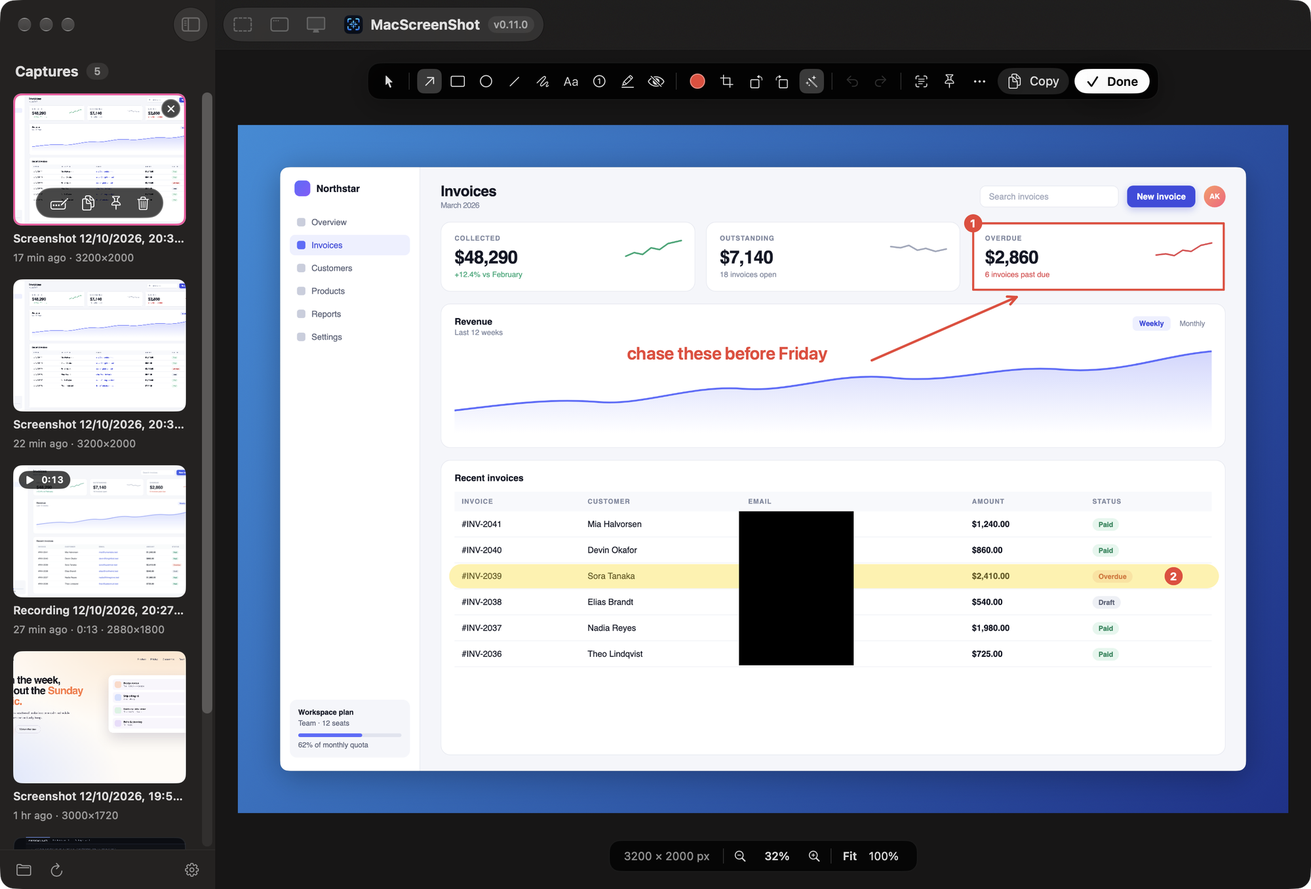
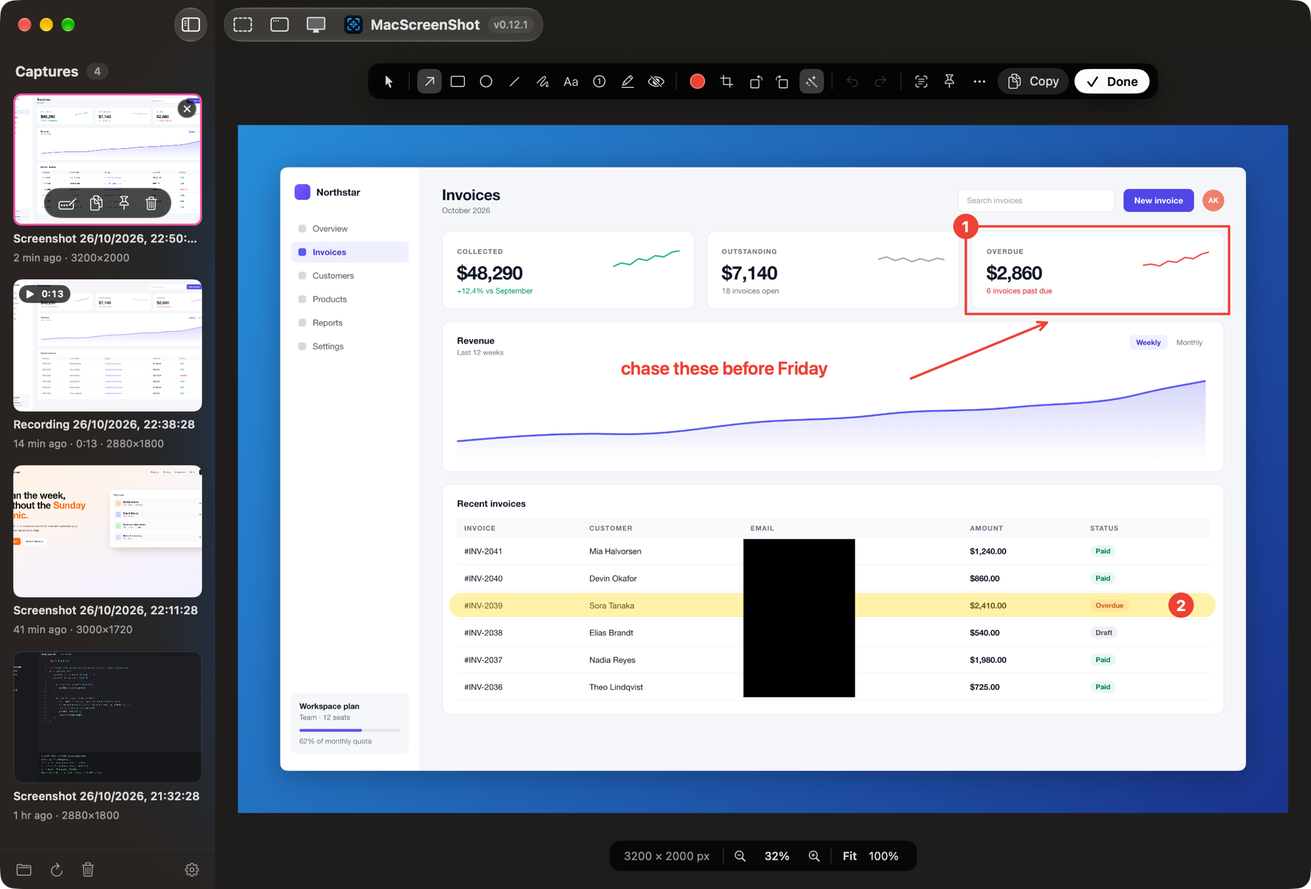
README: refresh screenshots for 0.12.1 and modernize the layout
Re-shoot every README screenshot from the current build (the selector
no longer has a pixel loupe; the editor shows rotate and Delete All;
the studio shows the current zoom timeline) and restyle the README with
a tighter hero, a feature grid and side-by-side image rows. Text now
covers rotate, auto-copy, Delete All, removing a single auto-zoom and
export resolutions.

diff --git a/README.md b/README.md
@@ -1,16 +1,16 @@
 <div align="center">
 
-<img src="MacScreenShot/Assets.xcassets/AppIcon.appiconset/AppIcon-1024.png" width="140" alt="MacScreenShot app icon — free open-source Mac screenshot app and screen recorder with annotation and a Screen Studio-style editor" />
+<img src="MacScreenShot/Assets.xcassets/AppIcon.appiconset/AppIcon-1024.png" width="128" alt="MacScreenShot app icon — free open-source Mac screenshot app and screen recorder with annotation and a Screen Studio-style editor" />
 
 # MacScreenShot
 
-**The free, open-source screenshot app and screen recorder for Mac — capture, annotate, beautify, record. 100% on-device.**
+### Capture, annotate, beautify and record your Mac screen — free, open source, 100% on-device.
 
-Press ⌘⇧4. Click a window or drag an area. Annotate it, drop it on a gradient, paste it anywhere — no account, no subscription, nothing ever leaves your Mac.
+Press <kbd>⌘</kbd> <kbd>⇧</kbd> <kbd>4</kbd>, click a window or drag an area, mark it up, drop it on a gradient and paste it anywhere.<br/>
+Record a take and a Screen Studio-style editor turns it into a polished 60 fps MP4. No account, no subscription, nothing leaves your Mac.
 
-🎬 **Records your screen too** — and opens it in a Screen Studio-style editor: a camera that zooms wherever you click, a smooth synthetic cursor, wallpaper backdrops, and a 60 fps MP4 out the other end. [See it →](#-screen-recording--the-studio-editor)
-
-[**⬇ Download for Mac (.dmg)**](https://github.com/winterzxzz/winter_shot/releases/latest)
+<a href="https://github.com/winterzxzz/winter_shot/releases/latest"><img src="https://img.shields.io/badge/Download_for_macOS-.dmg-0A84FF?style=for-the-badge&logo=apple&logoColor=white" alt="Download MacScreenShot for macOS" /></a>
+<a href="https://winterzxzz.github.io/winter_shot/"><img src="https://img.shields.io/badge/Website-winterzxzz.github.io-555555?style=for-the-badge" alt="MacScreenShot website" /></a>
 
 [![Latest release](https://img.shields.io/github/v/release/winterzxzz/winter_shot?label=Download&color=blue)](https://github.com/winterzxzz/winter_shot/releases/latest)
 [![Downloads](https://img.shields.io/github/downloads/winterzxzz/winter_shot/total?color=brightgreen)](https://github.com/winterzxzz/winter_shot/releases)
@@ -22,23 +22,169 @@ Press ⌘⇧4. Click a window or drag an area. Annotate it, drop it on a gradien
 [![License: MIT](https://img.shields.io/badge/License-MIT-yellow.svg)](LICENSE)
 [![GitHub stars](https://img.shields.io/github/stars/winterzxzz/winter_shot?style=social)](https://github.com/winterzxzz/winter_shot/stargazers)
 
+<br/>
+
 <img src="docs/assets/demo.gif" width="860" alt="MacScreenShot demo — freeze the screen and pick a window, annotate the capture with arrows and redaction, put it on a backdrop, record the screen with auto-zoom, edit it in the studio editor, and reopen everything from the notch history" />
 
-<sub>▶ <a href="https://winterzxzz.github.io/winter_shot/#demo">Watch the demo in full quality</a> · <a href="https://winterzxzz.github.io/winter_shot/">Website</a></sub>
+<sub>▶ <a href="https://winterzxzz.github.io/winter_shot/#demo">Watch the demo in full quality</a></sub>
+
+<br/>
+
+**[Features](#-features)** · **[Capture](#-the-capture-flow)** · **[Editor](#-the-editor)** · **[Recording](#-screen-recording--the-studio-editor)** · **[Compare](#-how-macscreenshot-compares)** · **[Download](#-download)** · **[FAQ](#-faq)**
 
 </div>
 
 ---
 
-## What is MacScreenShot?
+## 👋 What is MacScreenShot?
 
-MacScreenShot is a **native macOS menu-bar app for screenshots and screen recordings**. It captures with ScreenCaptureKit, hands you a real editor — nine annotation tools, crop, rotate, background beautify, on-device OCR — and keeps every edit in a sidecar file so you can reopen a shot months later and still move that arrow.
+MacScreenShot is a **native macOS menu-bar app for screenshots and screen recordings**. It captures with ScreenCaptureKit and hands you a real editor — nine annotation tools, crop, rotate, background beautify, on-device OCR — while every edit lives in a sidecar file, so you can reopen a shot months later and still move that arrow.
 
-Recordings get the same treatment: MacScreenShot logs your pointer and clicks *next to* the video instead of burning them in, then a Screen Studio-style editor turns the raw capture into a polished clip — zoom that follows your clicks, a synthetic cursor, backdrops, motion blur — and re-exports it any way you like, as many times as you like.
-
-> **MacScreenShot was previously called WinterShot.** Same app, same repository — updating keeps your captures, your settings and the Screen Recording permission.
+Recordings get the same treatment. MacScreenShot logs your pointer and clicks *next to* the video instead of burning them in, and a Screen Studio-style editor turns the raw take into a polished clip — a camera that zooms where you click, a smooth synthetic cursor, backdrops, motion blur — that you can re-export any way you like, as often as you like.
 
 It's the free, private alternative to paid capture tools like CleanShot X, Shottr and Screen Studio: pure SwiftUI, zero third-party dependencies, no telemetry, no account, and exactly **one** system permission.
+
+> [!NOTE]
+> **MacScreenShot was previously called WinterShot.** Same app, same repository — updating keeps your captures, your settings and the Screen Recording permission.
+
+## ✨ Features
+
+<table>
+<tr>
+<td width="33%" valign="top">
+
+#### 🧊 Frozen-screen selector
+The screen freezes the moment you press the hotkey. Crosshair guides follow the cursor and windows lift out of a dimmed backdrop — one click captures a window cleanly, even half-covered.
+
+</td>
+<td width="33%" valign="top">
+
+#### ✏ Nine annotation tools
+Arrow, rectangle, ellipse, line, freehand, text, numbered counters, highlighter and redaction — with colors, adjustable stroke, undo/redo and drag-to-move.
+
+</td>
+<td width="33%" valign="top">
+
+#### ♻ Non-destructive by design
+Annotations, crop, rotation and backdrop live in a `.wshot.json` sidecar next to the PNG. Every arrow stays editable, every crop and quarter turn reversible. Pixels are flattened only on export.
+
+</td>
+</tr>
+<tr>
+<td valign="top">
+
+#### 🎬 Recording + studio editor
+Record a display, a window or an area. Zoom, cursor, backdrop and masks are applied at export, so the raw take is never touched — and your edit is saved next to it.
+
+</td>
+<td valign="top">
+
+#### 🎨 Background beautify
+Put a shot on a gradient with padding, rounded corners and a soft shadow — seven presets, live in the editor, ready for posts and docs.
+
+</td>
+<td valign="top">
+
+#### 🔍 On-device OCR
+Pull the text out of any capture with Apple Vision and copy it. Nothing is uploaded.
+
+</td>
+</tr>
+<tr>
+<td valign="top">
+
+#### 📌 Pin & copy
+Float a capture above every window while you work. Or turn on *Copy to clipboard automatically* and every new shot is ready to paste the moment you take it.
+
+</td>
+<td valign="top">
+
+#### 🗂 A live library
+Screenshots and recordings sit side by side in the main window and the notch panel. The library follows its folder — files added or removed in Finder show up on their own — and *Delete All* in the sidebar clears it in one go, after a confirmation.
+
+</td>
+<td valign="top">
+
+#### 🔒 One permission, zero telemetry
+Screen Recording — and that's it. No microphone, no accessibility, no analytics. One global hotkey, re-recordable, and optional *Open at login*.
+
+</td>
+</tr>
+</table>
+
+## 📸 The capture flow
+
+Press the hotkey and the screen freezes. Hover a window to lift it out of the dimmed backdrop and click to capture it whole, or drag anywhere to take an area — a live size readout tracks the selection while you drag.
+
+<p align="center"><img src="docs/assets/selector.png" width="860" alt="MacScreenShot's frozen-screen selector: the desktop is dimmed, the hovered Northstar invoices window is lifted out and outlined with an app label, crosshair guides follow the cursor, and a hint reads Click to capture window · Drag to select an area" /></p>
+
+<table>
+<tr>
+<td width="44%" align="center"><img src="docs/assets/preview.png" width="340" alt="Two capture preview cards stacked at the bottom-left of the screen, each with annotate, copy, pin and delete buttons" /></td>
+<td valign="middle">
+
+### Every shot lands as a card
+
+Each capture slides in as a thumbnail card at the edge of the screen. New captures stack upward.
+
+- ✏ **Annotate** — or just click the card to open the editor
+- 📋 **Copy** — paste straight into Slack, an issue or a doc
+- 📌 **Pin** — float it above every window
+- 🗑 **Delete** — gone, sidecar and all
+
+Card size and how long it stays on screen are yours to set in **Settings → Capture Preview**.
+
+</td>
+</tr>
+</table>
+
+## 🎨 The editor
+
+Nine tools, a live canvas and a library sidebar. Nothing is baked into the image — the arrows, the counters, the crop, the rotation and the backdrop are all still yours the next time you open the file.
+
+<p align="center"><img src="docs/assets/editor.png" width="860" alt="MacScreenShot's editor showing a captured invoices dashboard annotated with a red rectangle and arrow, a text note, numbered counters, a yellow highlighter across a table row and a black redaction bar over the email column" /></p>
+
+<table>
+<tr>
+<td width="56%" align="center"><img src="docs/assets/beautify.png" width="460" alt="The same editor with background beautify enabled — the capture sits on a blue gradient with padding, rounded corners and a drop shadow" /></td>
+<td valign="middle">
+
+### Post-ready in one click
+
+Flip on a backdrop and the same capture sits on a gradient with padding, rounded corners and a soft shadow.
+
+- **Crop & rotate** — non-destructive, quarter turns with <kbd>⌘</kbd> <kbd>[</kbd> / <kbd>⌘</kbd> <kbd>]</kbd>
+- **Recognize text** — OCR the shot and copy what it says
+- **Copy, pin or export** — a flattened copy; the original never changes
+
+</td>
+</tr>
+</table>
+
+## 🎬 Screen recording — the studio editor
+
+Pick **Start Recording…** from the menu bar, choose a display, a window or an area, and a floating timer pill <img src="docs/assets/hud.png" height="22" alt="MacScreenShot's recording HUD: a small floating pill with a red dot, an elapsed timer and a stop button" align="center" /> tracks the take. MacScreenShot keeps the real pointer *out* of the pixels and logs its motion, its clicks and even which pointer macOS was showing into a `.wsrec.json` sidecar.
+
+Stop, and the studio editor opens:
+
+<p align="center"><img src="docs/assets/studio.png" width="860" alt="MacScreenShot's Screen Studio-style recording editor: the recording sits on a blue wallpaper backdrop with padding and rounded corners, the camera is zoomed in on a New invoice dialog with a synthetic text cursor, the Background panel is open on the right, and the timeline shows the clip and an auto-zoom range" /></p>
+
+| | |
+|---|---|
+| 🖼 **Backdrops** | Wallpaper, gradient, solid color, your own image or a looping video — with blur, padding, corner radius and shadow. |
+| 🔎 **Auto-zoom camera** | Glides to wherever you clicked, holds while you work there, then eases back out. Adjustable depth — and any single zoom can be removed from the timeline and restored later. |
+| 🖱 **Synthetic cursor** | Smoothed and resizable, with click ripples, mirroring the pointer the app was actually showing (text cursor, hand, resize arrows…) in macOS, light or dark coloring. |
+| ✂ **Crop & masks** | A non-destructive crop with aspect lock, plus timed regions that blur sensitive data or spotlight one area of the frame. |
+| 📐 **Output shapes** | 16:9 for YouTube, 9:16 for Reels and TikTok, 1:1, 4:3, 3:4 and 4:5 — at native resolution up to 4K, or 1440p / 1080p. |
+| 🎞 **Finishing touches** | Cinematic motion blur, background music with volume control, presets, undo/redo and a scrubbable timeline. |
+
+Everything composites on the GPU, so the live preview *is* the 60 fps MP4 you export. The raw recording is never modified — and neither is your edit lost: every change is saved next to the take in a `.wsedit.json` sidecar, so you can close the window and pick the recording up later from the library exactly where you left it.
+
+## 🗂 Your captures, one click away
+
+**Show History** in the menu-bar menu drops a notch panel with your latest captures — screenshots and recordings alike — plus one-click buttons to capture an area, a window or the full screen. The main window keeps the full library beside the editor. A screenshot opens in the annotation editor, a recording in the studio editor with its saved edit.
+
+<p align="center"><img src="docs/assets/notch.png" width="860" alt="MacScreenShot's notch history panel dropping from the top of the screen with recent screenshot and recording thumbnails, capture-mode buttons, Open Library, and Captures Folder, Refresh and Quit buttons" /></p>
 
 ## 🆚 How MacScreenShot compares
 
@@ -56,11 +202,12 @@ It's the free, private alternative to paid capture tools like CleanShot X, Shott
 | 100% on-device, no account | ✅ | ✅ | ✅ | ❌ | ✅ |
 | System permissions required | **1** | several | several | several | 0 |
 
+> [!TIP]
 > MacScreenShot is the only tool here that is **free, open source, and pairs a non-destructive screenshot editor with a Screen Studio-style recording editor** — with a single screen-recording permission and nothing leaving your Mac.
 
-*Comparison reflects publicly documented features as of 2026; competitors are trademarks of their owners. Corrections welcome via PR.*
+<sub>Comparison reflects publicly documented features as of 2026; competitors are trademarks of their owners. Corrections welcome via PR.</sub>
 
-## ⬇ Download
+## 📥 Download
 
 **[Grab the latest `.dmg` from Releases →](https://github.com/winterzxzz/winter_shot/releases/latest)**
 
@@ -72,72 +219,12 @@ It's the free, private alternative to paid capture tools like CleanShot X, Shott
    ```
 
 3. Follow the two-step onboarding: pick your capture shortcut and grant **Screen Recording** (System Settings → Privacy & Security → Screen Recording). macOS may ask you to quit and reopen the app once.
-4. MacScreenShot lives in the menu bar — no Dock icon. Press ⌘⇧4 and start capturing.
+4. MacScreenShot lives in the menu bar — no Dock icon. Press <kbd>⌘</kbd> <kbd>⇧</kbd> <kbd>4</kbd> and start capturing.
 
+> [!IMPORTANT]
 > If macOS's own ⌘⇧4 is still enabled, both will fire. Turn the system one off in System Settings → Keyboard → Keyboard Shortcuts → Screenshots, or record a different shortcut in MacScreenShot's Settings.
 
-> Building from source instead? See [docs/DEVELOPMENT.md](docs/DEVELOPMENT.md).
-
-## ✨ Features
-
-| | |
-|---|---|
-| 🧊 **Frozen-screen selector** | The screen freezes the moment you press the hotkey. Crosshair guides follow the cursor, and windows lift out of a dimmed backdrop as you hover — one click captures a window cleanly, even when it's half-covered. |
-| ✏ **Nine annotation tools** | Arrow, rectangle, ellipse, line, freehand, text, numbered counters, highlighter and redaction — with a color row, adjustable stroke, undo/redo and drag-to-move. |
-| ♻ **Non-destructive by design** | Annotations, crop, rotation and backdrop live in a `.wshot.json` sidecar next to the PNG. Reopen a capture later and every arrow is still editable, every crop and every quarter turn reversible. Pixels are flattened only on export. |
-| 🎬 **Screen recording + studio editor** | Record a display, a window or an area. The raw video stays untouched while zoom, cursor, backdrop and masks are applied at export — re-export the same take with a different look anytime. Close the editor whenever you like: the edit is saved next to the take and comes back when you reopen it from the library. |
-| 🎨 **Background beautify** | Drop a shot onto a gradient with padding, rounded corners and a soft shadow — seven presets, live in the editor, ready for posts and docs. |
-| 🔍 **On-device OCR** | Pull the text out of any capture with Apple Vision and copy it. Nothing is uploaded. |
-| 📌 **Pin to screen** | Float a capture above every window while you work; drag to move, double-click to dismiss. |
-| 🗂 **Capture history** | Screenshots and recordings sit side by side in the main window's library, and a notch panel drops from the top of the screen with the latest captures — reopen, copy, pin or delete from either. |
-| ⌨ **One global hotkey** | ⌘⇧4 opens the selector system-wide, and it's re-recordable in Settings. Everything else lives in the menu-bar icon. |
-| 🚀 **Starts with your Mac** | Turn on *Open at login* in Settings and the menu-bar icon — and your capture shortcut — are waiting after every restart. |
-| 🔒 **One permission, zero telemetry** | Screen Recording — and that's it. No microphone, no accessibility, no analytics, and no network traffic beyond the update check. |
-
-## 📸 The capture flow
-
-Press the hotkey and the screen freezes. Hover a window to lift it out of the dimmed backdrop and click to capture it whole, or drag anywhere to take an area — a live size readout tracks the selection while you drag.
-
-<p align="center"><img src="docs/assets/selector.png" width="820" alt="MacScreenShot's frozen-screen selector: the desktop is dimmed, the hovered window is lifted out and outlined in green with an app label, and a pixel loupe magnifies the cursor position with live coordinates" /></p>
-
-Every capture slides in as a thumbnail card at the edge of the screen — annotate, copy, pin or delete it right there, or click it to open the editor. New captures stack upward.
-
-<p align="center"><img src="docs/assets/preview.png" width="560" alt="Two capture preview cards stacked at the bottom-left of the screen, each with annotate, copy, pin and delete buttons" /></p>
-
-## 🎨 The editor
-
-Nine tools, a live canvas, and a library sidebar. Nothing is baked into the image — the arrows, the counters, the crop, the rotation and the backdrop are all still yours the next time you open the file.
-
-<p align="center"><img src="docs/assets/editor.png" width="860" alt="MacScreenShot's editor showing a captured dashboard annotated with a red arrow, numbered counters, a yellow highlighter across a table row and black redaction bars over an email column" /></p>
-
-Flip on a backdrop and the same capture is post-ready: gradient, padding, rounded corners, soft shadow.
-
-<p align="center"><img src="docs/assets/beautify.png" width="860" alt="The same editor with background beautify enabled — the capture sits on a blue gradient with padding, rounded corners and a drop shadow" /></p>
-
-## 🎬 Screen recording — the studio editor
-
-Pick **Record Screen** from the menu bar, choose a display, a window or an area, and a floating timer pill tracks the take with a stop button. MacScreenShot keeps the real pointer *out* of the pixels and logs its motion, its clicks and even which pointer macOS was showing into a `.wsrec.json` sidecar.
-
-<p align="center"><img src="docs/assets/hud.png" width="220" alt="MacScreenShot's recording HUD: a small floating pill with a red dot, an elapsed timer and a stop button" /></p>
-
-Stop, and the studio editor opens:
-
-<p align="center"><img src="docs/assets/studio.png" width="860" alt="MacScreenShot's Screen Studio-style recording editor: the recording sits on a wallpaper backdrop with padding and rounded corners, a synthetic cursor and auto-zoom follow the clicks, and a timeline shows the clip and zoom ranges" /></p>
-
-- **Backdrops** — wallpaper, gradient, solid color, your own image, or a looping video, with blur, padding, corner radius and shadow.
-- **Auto-zoom camera** — glides to wherever you clicked, holds while you work there, then eases back out. Adjustable depth.
-- **Synthetic cursor** — smoothed, resizable, with click ripples, mirroring the pointer the app was actually showing (text cursor, hand, resize arrows…) in macOS, light or dark coloring.
-- **Crop and masks** — a non-destructive crop with aspect lock, plus timed regions that blur sensitive data or spotlight one area of the frame.
-- **Output shapes** — 16:9 for YouTube, 9:16 for Reels and TikTok, 1:1, 4:5 and more.
-- **Finishing touches** — cinematic motion blur, background music with volume control, presets, undo/redo and a scrubable timeline.
-
-Everything composites on the GPU, so the live preview *is* the 60 fps MP4 you export. The raw recording is never modified — and neither is your edit lost: every change is saved next to the take in a `.wsedit.json` sidecar, so you can close the window and pick the recording up later from the library exactly where you left it.
-
-## 🗂 Your captures, one click away
-
-The menu-bar icon drops a notch panel with your latest captures — screenshots and recordings alike; the main window keeps the full library beside the editor. A screenshot opens in the annotation editor, a recording in the studio editor with its saved edit.
-
-<p align="center"><img src="docs/assets/notch.png" width="820" alt="MacScreenShot's notch history panel dropping from the top of the screen with recent capture thumbnails and buttons for the captures folder, refresh and quit" /></p>
+Building from source instead? See [docs/DEVELOPMENT.md](docs/DEVELOPMENT.md).
 
 ## 🐛 Made for bug reports, feedback and demos
 
@@ -148,7 +235,7 @@ Screenshots are how software teams talk to each other. MacScreenShot is built fo
 - **Write the docs** — beautified shots with consistent padding and corners, exported at the same size every time.
 - **Ship the demo** — record the feature, let the camera zoom where you click, export 16:9 for the changelog and 9:16 for social from the same take.
 
-Because the edits live in sidecars, you can reopen last month's screenshot, move one arrow, and re-export — instead of redoing the capture.
+Because the edits live in sidecars, you can reopen last month's screenshot, move one arrow and re-export — instead of redoing the capture.
 
 ## 🔒 Privacy, by design
 
@@ -167,70 +254,95 @@ Because the edits live in sidecars, you can reopen last month's screenshot, move
 
 <details>
 <summary><b>Is MacScreenShot free?</b></summary>
+<br/>
 Yes — free and open source under MIT. No subscription, no account, no trial limits.
 </details>
 
 <details>
 <summary><b>Is it a free alternative to CleanShot X, Shottr or Screen Studio?</b></summary>
+<br/>
 For most everyday work, yes: freeze-frame capture, annotation, redaction, background beautify, OCR and pinning on the screenshot side, and a studio editor with auto-zoom, a smooth cursor and backdrops on the recording side. See the <a href="#-how-macscreenshot-compares">comparison table</a>.
 </details>
 
 <details>
 <summary><b>How is this different from macOS's built-in ⌘⇧4?</b></summary>
+<br/>
 The system tool takes the picture and stops there. MacScreenShot adds a frozen-screen selector with window lifting, a real annotation editor whose edits stay editable forever, background beautify, OCR, pinning, a capture history — and screen recording with a full post-production editor.
 </details>
 
 <details>
 <summary><b>macOS says the app "cannot be opened". What do I do?</b></summary>
+<br/>
 The build isn't notarized yet. Right-click the app → <b>Open</b> → <b>Open</b>, or run <code>xattr -cr /Applications/MacScreenShot.app</code> once.
 </details>
 
 <details>
 <summary><b>Where do my captures live?</b></summary>
-<code>~/Library/Application Support/MacScreenShot/Captures/</code> — an immutable PNG or MP4 plus a JSON sidecar holding the metadata and your edits. A library created while the app was still called WinterShot stays in <code>WinterShot/Captures</code>. Sidecars are flagged hidden so Finder shows only pictures and movies; press ⌘⇧. to reveal them.
+<br/>
+<code>~/Library/Application Support/MacScreenShot/Captures/</code> — an immutable PNG or MP4 plus a JSON sidecar holding the metadata and your edits. A library created while the app was still called WinterShot stays in <code>WinterShot/Captures</code>. Sidecars are flagged hidden so Finder shows only pictures and movies; press ⌘⇧. to reveal them. The library watches this folder, so a picture or movie you add or delete in Finder shows up in the app without a refresh.
 </details>
 
 <details>
 <summary><b>Can I edit a capture again later?</b></summary>
+<br/>
 Yes — that's the point of the sidecars. Reopen any capture from the history and every annotation is still selectable, the crop and the rotation are still reversible, and the backdrop is still adjustable. Exports flatten a copy, never the original.
 </details>
 
 <details>
+<summary><b>Can every capture go to the clipboard automatically?</b></summary>
+<br/>
+Yes — Settings → After Capture → <b>Copy to clipboard automatically</b>. It's off by default; turn it on and each new screenshot is ready to paste as soon as it's taken.
+</details>
+
+<details>
 <summary><b>Does the recording editor change my original video?</b></summary>
+<br/>
 Never. Zoom, cursor, backdrop, crop, masks and music are applied only when you export. Re-export the same take as many times as you want, in as many shapes as you want.
 </details>
 
 <details>
 <summary><b>Why does the cursor look different in the exported video?</b></summary>
+<br/>
 Because it isn't the recorded one. MacScreenShot keeps the real pointer out of the captured pixels and re-draws a smoothed synthetic cursor at export time — that's what lets it glide between positions, scale up, show click ripples and stay sharp at any zoom level.
 </details>
 
 <details>
 <summary><b>Can I change the ⌘⇧4 shortcut?</b></summary>
+<br/>
 Yes — Settings → Global Hotkey, then click the shortcut and record a new one (it must include ⌘, ⌥ or ⌃).
 </details>
 
 <details>
 <summary><b>Does MacScreenShot start automatically at login?</b></summary>
+<br/>
 Only if you ask it to: Settings → Startup → <b>Open at login</b>. It registers through <code>SMAppService</code>, so the entry shows up in System Settings → General → Login Items & Extensions and can be switched off from either place — the toggle in MacScreenShot always reflects what the system currently says. Worth turning on, since the app has no Dock icon and the hotkey does nothing until it's running.
 </details>
 
 <details>
 <summary><b>Does it work on Intel Macs?</b></summary>
+<br/>
 The published build is Apple Silicon only. Intel users can build from source — see <a href="docs/DEVELOPMENT.md">docs/DEVELOPMENT.md</a>.
 </details>
 
 ## 🗺 Roadmap
 
-- Space to toggle window/area mode mid-selection
-- Multi-display fullscreen capture
-- More export presets for the recording editor
+- [ ] Space to toggle window/area mode mid-selection
+- [ ] Multi-display fullscreen capture
+- [ ] More export presets for the recording editor
 
 ## 🎙 Also from the same maker
 
+<table>
+<tr>
+<td>
+
 **[WinterVoice](https://github.com/winterzxzz/winter_voice)** — free, open-source voice dictation for macOS. Hold a key, speak, and your words land in any app — 100% offline Whisper speech-to-text. Built for vibe coding: dictate prompts straight into Claude Code, Cursor or ChatGPT instead of typing them.
 
-> Same house style, same privacy stance: native SwiftUI, on-device, no account. **Screenshot with MacScreenShot, dictate with WinterVoice.**
+Same house style, same privacy stance: native SwiftUI, on-device, no account. **Screenshot with MacScreenShot, dictate with WinterVoice.**
+
+</td>
+</tr>
+</table>
 
 ## 🤝 Contributing
 
